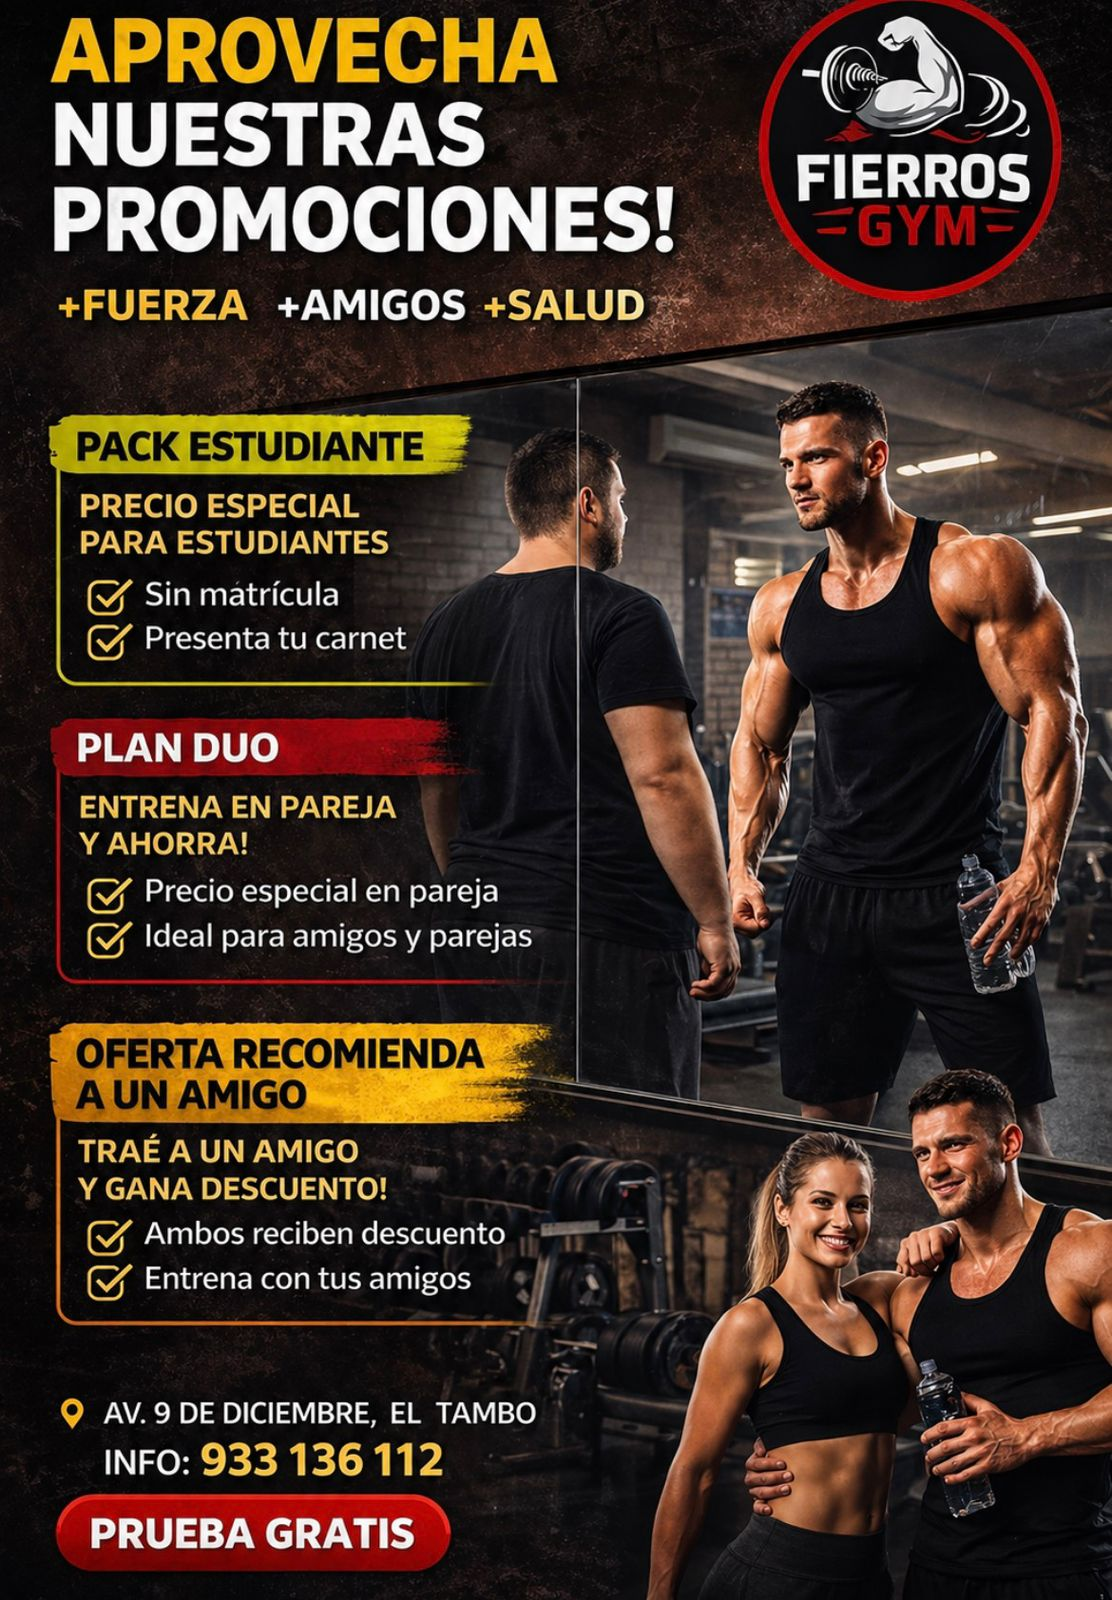
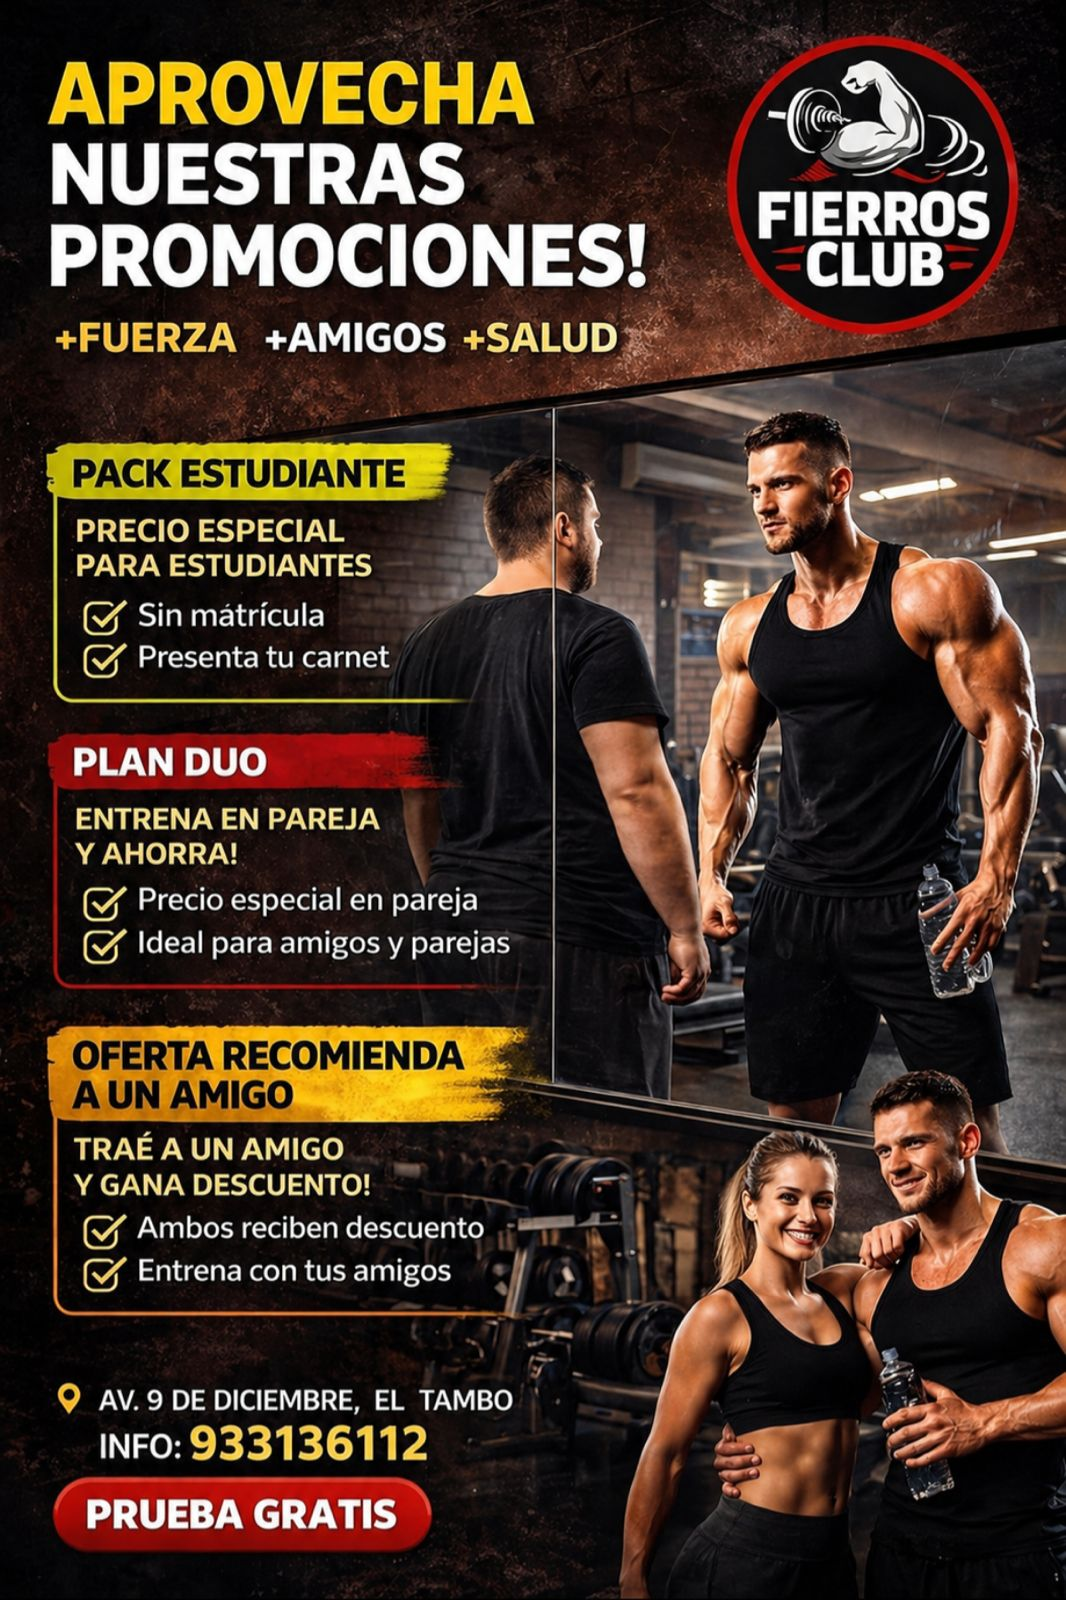
Subiendo actualización de la imagen y verficando el funcionamiento correcto del envio del formulario y tambien haciendo modificaciones a los planes

diff --git a/src/components/sections/About.jsx b/src/components/sections/About.jsx
@@ -64,10 +64,10 @@ export default function About() {
             className="text-zinc-300 text-base md:text-lg lg:text-xl leading-relaxed mb-12 max-w-2xl mx-auto md:mx-0"
           >
             Forgiados en el corazón de Huancayo, Fierros Club no es solo un gimnasio; es un movimiento de 
-            <span className="text-white font-bold italic">Fuerza Real</span>. 
+            <span className="text-white font-bold italic"> Fuerza Real</span>. 
             Con años de trayectoria, entendemos que el poder no se regala, se conquista gota a gota, 
             repetición tras repetición. No vendemos promesas vacías; proporcionamos el templo donde 
-            <span className="text-red-600 font-bold italic">forjarás un cuerpo legendario</span>. 
+            <span className="text-red-600 font-bold italic"> forjarás un cuerpo legendario</span>. 
             Aquí no hay excusas, solo resultados crudos y poderosos.
           </motion.p>
 

diff --git a/src/components/sections/Plans.jsx b/src/components/sections/Plans.jsx
@@ -9,14 +9,14 @@ export default function Plans({ scrollTo }) {
   const plans = [
     { 
       title: "Promo Estudiante", 
-      price: "S/ 60", 
+      price: "S/ 49.90", 
       desc: "¡Ponte fuerte cerca de ti!", 
       feats: ['Sin matrícula', 'Eres bienvenido', 'Presenta tu carnet'], 
       image: promoEstudiante 
     },
     { 
       title: "Promo Vecino", 
-      price: "S/ 60", 
+      price: "S/ 59.90", 
       desc: "¡Fuerza real, cerca de ti!", 
       feats: ['Sin matrícula', 'Eres bienvenido', 'Rutinas guiadas', '+Comunidad'], 
       featured: true,
@@ -24,7 +24,7 @@ export default function Plans({ scrollTo }) {
     },
     { 
       title: "Plan Duo", 
-      price: "S/ 110", 
+      price: "S/ 109.90", 
       desc: "Entrena en pareja y ahorra", 
       feats: ['Precio especial en pareja', 'Ideal para amigos y parejas'], 
       image: promoDuo 

diff --git a/src/components/sections/Contact.jsx b/src/components/sections/Contact.jsx
@@ -43,6 +43,7 @@ export default function Contact() {
             className="grid gap-6 relative z-10"
           >
             <input type="hidden" name="_captcha" value="false" />
+            <input type="hidden" name="_next" value="https://fierrosclub.vercel.app" />
 
             {/* Campo Nombres y Apellidos */}
             <div className="relative">
